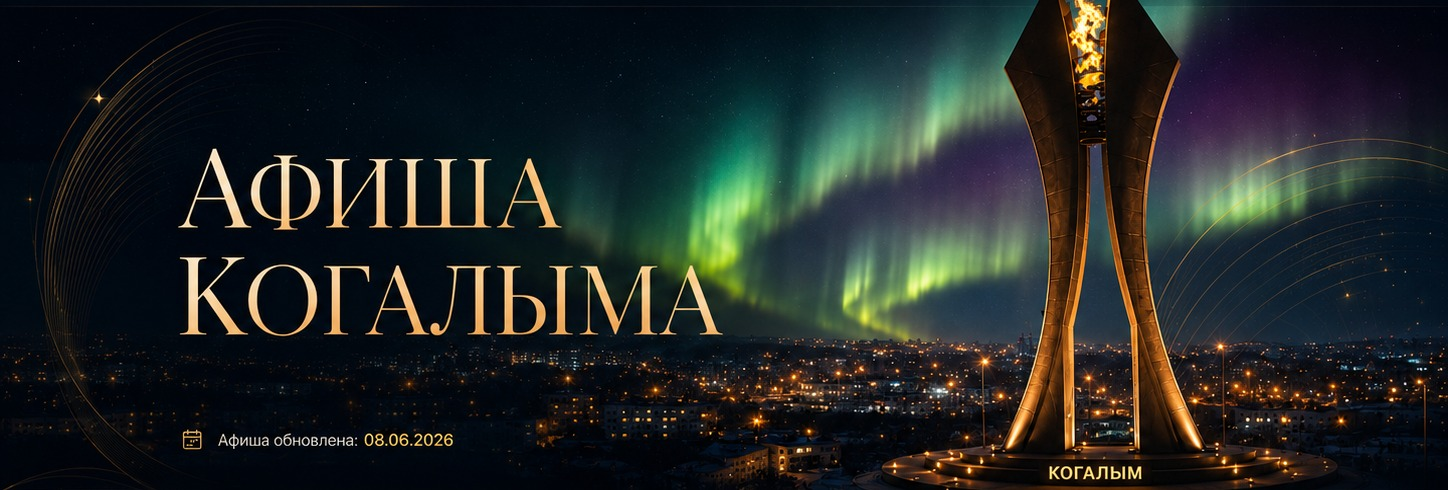
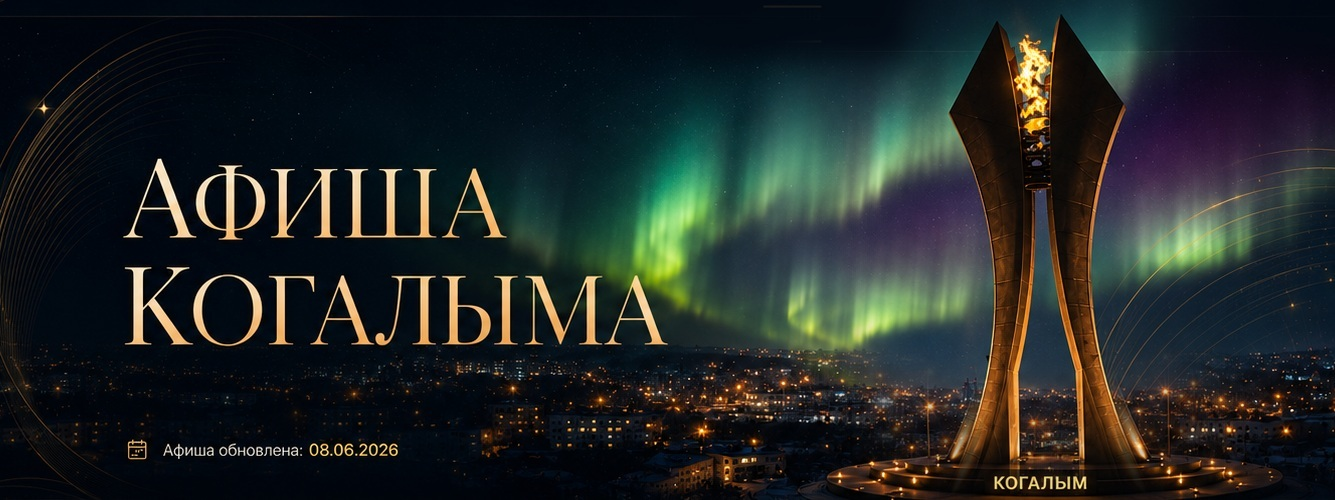
Add files via upload

diff --git a/style.v7-hard.css b/style.v7-hard.css
@@ -7862,3 +7862,77 @@ max-width:none;
     background-position:center center!important;
   }
 }
+
+
+/* ===== V34 NO FRAME AFISHA HERO 2026-06-10 ===== */
+.events-hero-final{
+  background-size:cover!important;
+  background-position:center center!important;
+  height:clamp(360px, 33vw, 460px)!important;
+}
+.events-hero-final__status{
+  left:92px!important;
+  bottom:16px!important;
+  display:inline-flex!important;
+  align-items:center!important;
+  gap:10px!important;
+  color:#f0dfb0!important;
+  font-size:17px!important;
+  font-weight:600!important;
+  line-height:1!important;
+  letter-spacing:.02em!important;
+  text-shadow:0 2px 10px rgba(0,0,0,.55)!important;
+  opacity:1!important;
+}
+.events-hero-final__status::before{
+  content:""!important;
+  width:8px!important;
+  height:8px!important;
+  border-radius:50%!important;
+  background:#9ee06f!important;
+  box-shadow:0 0 10px rgba(158,224,111,.75)!important;
+  flex:0 0 8px!important;
+}
+@media(max-width:980px){
+  .events-hero-final{
+    height:clamp(260px, 56vw, 380px)!important;
+  }
+  .events-hero-final__status{
+    left:28px!important;
+    right:28px!important;
+    bottom:12px!important;
+    font-size:14px!important;
+  }
+}
+
+
+/* ===== V35 AFISHA NO CROP / NO FRAME 2026-06-10 ===== */
+.events-hero-final{
+  width:min(1240px, calc(100% - 56px))!important;
+  height:465px!important;
+  background-image:url("images/events/afisha-premium-hero-final.jpg")!important;
+  background-size:100% 100%!important;
+  background-repeat:no-repeat!important;
+  background-position:center center!important;
+  border:0!important;
+  border-radius:0!important;
+  box-shadow:none!important;
+  overflow:visible!important;
+}
+.events-hero-final__status{
+  display:none!important;
+}
+@media(max-width:980px){
+  .events-hero-final{
+    width:calc(100% - 28px)!important;
+    height:calc((100vw - 28px) * 0.3745)!important;
+    min-height:250px!important;
+    max-height:465px!important;
+    background-size:100% 100%!important;
+  }
+}
+@media(max-width:640px){
+  .events-hero-final{
+    min-height:220px!important;
+  }
+}

diff --git a/places.html b/places.html
@@ -8,7 +8,7 @@
   <meta name="viewport" content="width=device-width, initial-scale=1.0">
   <title>Что посмотреть в Когалыме — Открой Когалым</title>
   <meta name="description" content="Городской путеводитель по Когалыму: памятники, парки, культура, музеи, храмы, спорт, образование, адреса и карта.">
-  <link rel="stylesheet" href="style.v7-hard.css?v=site_20260610_v33_exact_afisha">
+  <link rel="stylesheet" href="style.v7-hard.css?v=site_20260610_v35_no_crop">
 
 
 <style>
@@ -443,7 +443,7 @@
   <a href="mailto:[email redacted]">Обратная связь</a>
   <a href="admin.html">Админка</a>
 </footer>
-<script src="places.v7-hard.js?v=site_20260610_v33_exact_afisha"></script>
-<script src="weather.js?v=site_20260610_v33_exact_afisha"></script>
+<script src="places.v7-hard.js?v=site_20260610_v35_no_crop"></script>
+<script src="weather.js?v=site_20260610_v35_no_crop"></script>
 </body>
 </html>

diff --git a/about.html b/about.html
@@ -7,7 +7,7 @@
   <meta http-equiv="Expires" content="0">
   <meta name="viewport" content="width=device-width, initial-scale=1.0">
   <title>О городе — Открой Когалым</title>
-  <link rel="stylesheet" href="style.v7-hard.css?v=site_20260610_v33_exact_afisha">
+  <link rel="stylesheet" href="style.v7-hard.css?v=site_20260610_v35_no_crop">
 </head>
 <body>
 <header class="header">
@@ -69,6 +69,6 @@
   <a href="admin.html">Админка</a>
   <a href="announcements.html">Реклама</a>
 </footer>
-<script src="weather.js?v=site_20260610_v33_exact_afisha"></script>
+<script src="weather.js?v=site_20260610_v35_no_crop"></script>
 </body>
 </html>

diff --git a/announcements.html b/announcements.html
@@ -7,7 +7,7 @@
   <meta http-equiv="Expires" content="0">
   <meta name="viewport" content="width=device-width, initial-scale=1.0">
   <title>Объявления — Открой Когалым</title>
-  <link rel="stylesheet" href="style.v7-hard.css?v=site_20260610_v33_exact_afisha">
+  <link rel="stylesheet" href="style.v7-hard.css?v=site_20260610_v35_no_crop">
 
 <style>
 /* ===== V28 CLEAN REPAIR INLINE ===== */
@@ -221,6 +221,6 @@
 </footer>
 <script src="announcements.js?v=v7_20260522_nocrop"></script>
 <script src="contact-popup.js?v=v7_20260522_nocrop"></script>
-<script src="weather.js?v=site_20260610_v33_exact_afisha"></script>
+<script src="weather.js?v=site_20260610_v35_no_crop"></script>
 </body>
 </html>

diff --git a/events.html b/events.html
@@ -7,7 +7,7 @@
 <meta http-equiv="Expires" content="0">
 <meta name="viewport" content="width=device-width, initial-scale=1.0">
 <title>Афиша — Открой Когалым</title>
-<link rel="stylesheet" href="style.v7-hard.css?v=site_20260610_v33_exact_afisha">
+<link rel="stylesheet" href="style.v7-hard.css?v=site_20260610_v35_no_crop">
 <style>
 :root{--af-bg:#020814;--af-panel:rgba(5,18,34,.82);--af-panel2:rgba(7,22,40,.92);--af-line:rgba(194,220,255,.16);--af-line2:rgba(241,199,91,.38);--af-gold:#f1c75b;--af-gold2:#d6a24b;--af-text:#f7fbff;--af-muted:#aebcd0;--af-blue:#0a1628}
 html{scroll-behavior:smooth}
@@ -2010,7 +2010,7 @@ footer{max-width:1450px!important;margin:34px auto 0!important;padding:22px 28px
   <a href="admin.html">Админка</a>
 </footer>
 
-<script src="weather.js?v=site_20260610_v33_exact_afisha"></script>
+<script src="weather.js?v=site_20260610_v35_no_crop"></script>
 <script>
 (function(){
   const MONTHS = ['января','февраля','марта','апреля','мая','июня','июля','августа','сентября','октября','ноября','декабря'];

diff --git a/index.html b/index.html
@@ -4,7 +4,7 @@
   <meta charset="UTF-8" />
   <meta name="viewport" content="width=device-width, initial-scale=1.0" />
   <title>Открой Когалым</title>
-  <link rel="stylesheet" href="style.v7-hard.css?v=site_20260610_v33_exact_afisha" />
+  <link rel="stylesheet" href="style.v7-hard.css?v=site_20260610_v35_no_crop" />
 
 <style>
 /* ===== V28 CLEAN REPAIR INLINE ===== */
@@ -254,6 +254,6 @@
   </nav>
 </footer>
 
-<script src="weather.js?v=site_20260610_v33_exact_afisha"></script>
+<script src="weather.js?v=site_20260610_v35_no_crop"></script>
 </body>
 </html>

diff --git a/routes.html b/routes.html
@@ -7,7 +7,7 @@
   <meta http-equiv="Expires" content="0">
 <meta name="viewport" content="width=device-width, initial-scale=1.0">
 <title>Маршруты — Открой Когалым</title>
-<link rel="stylesheet" href="style.v7-hard.css?v=site_20260610_v33_exact_afisha">
+<link rel="stylesheet" href="style.v7-hard.css?v=site_20260610_v35_no_crop">
 <style>
 /* ===== ROUTES V2 FINAL: scoped, no overlap, no fixed broken widths ===== */
 .routes-v2-page{
@@ -1084,6 +1084,6 @@
   document.addEventListener('keydown', e => { if(e.key === 'Escape' && modal.classList.contains('is-open')) closeRoute(); });
 })();
 </script>
-<script src="weather.js?v=site_20260610_v33_exact_afisha"></script>
+<script src="weather.js?v=site_20260610_v35_no_crop"></script>
 </body>
 </html>